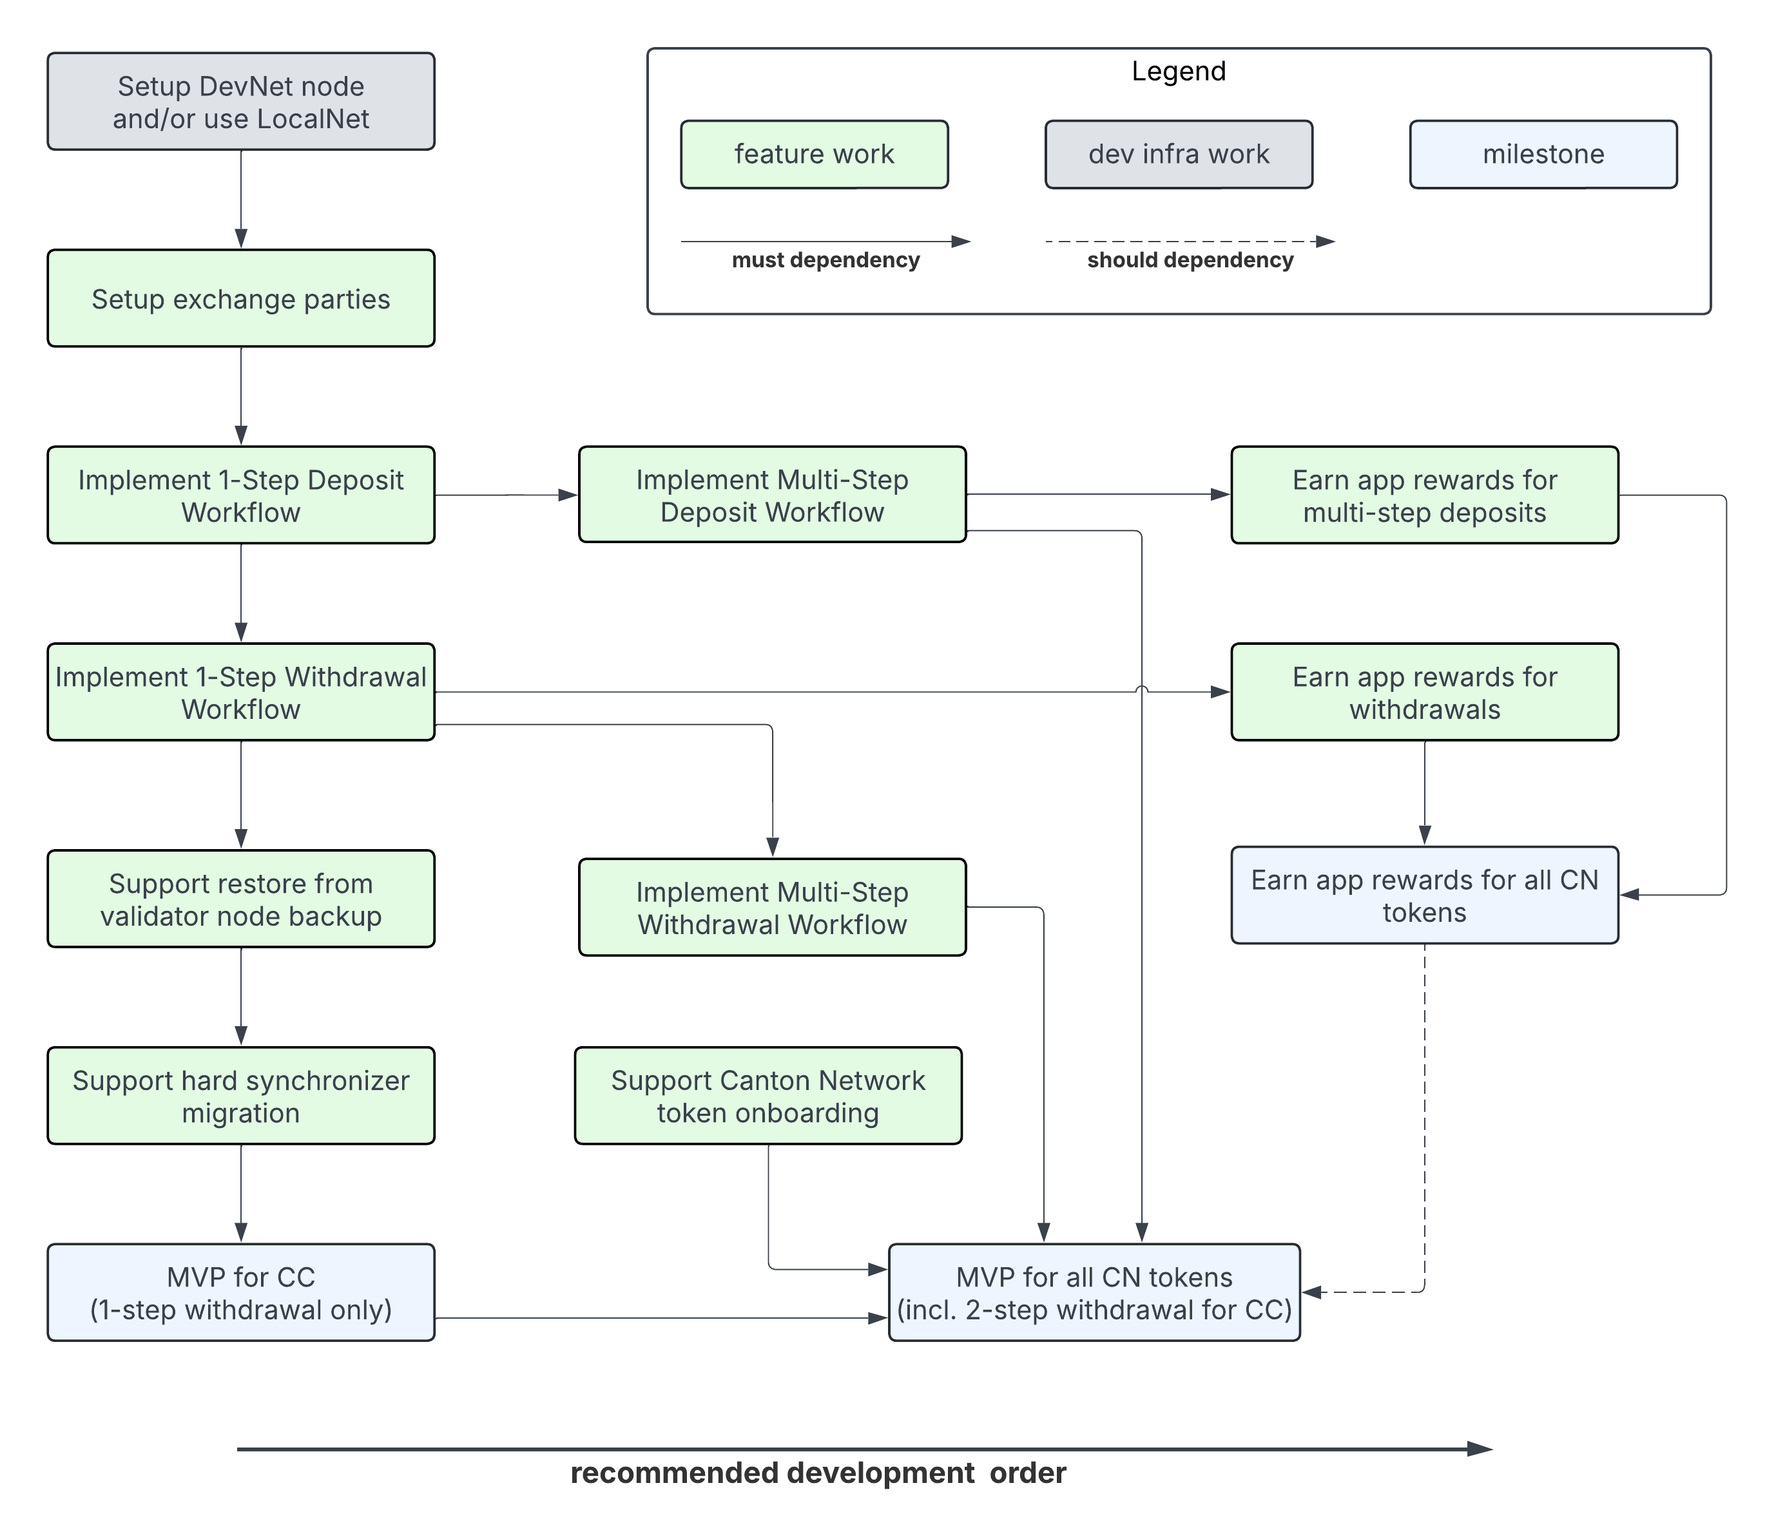
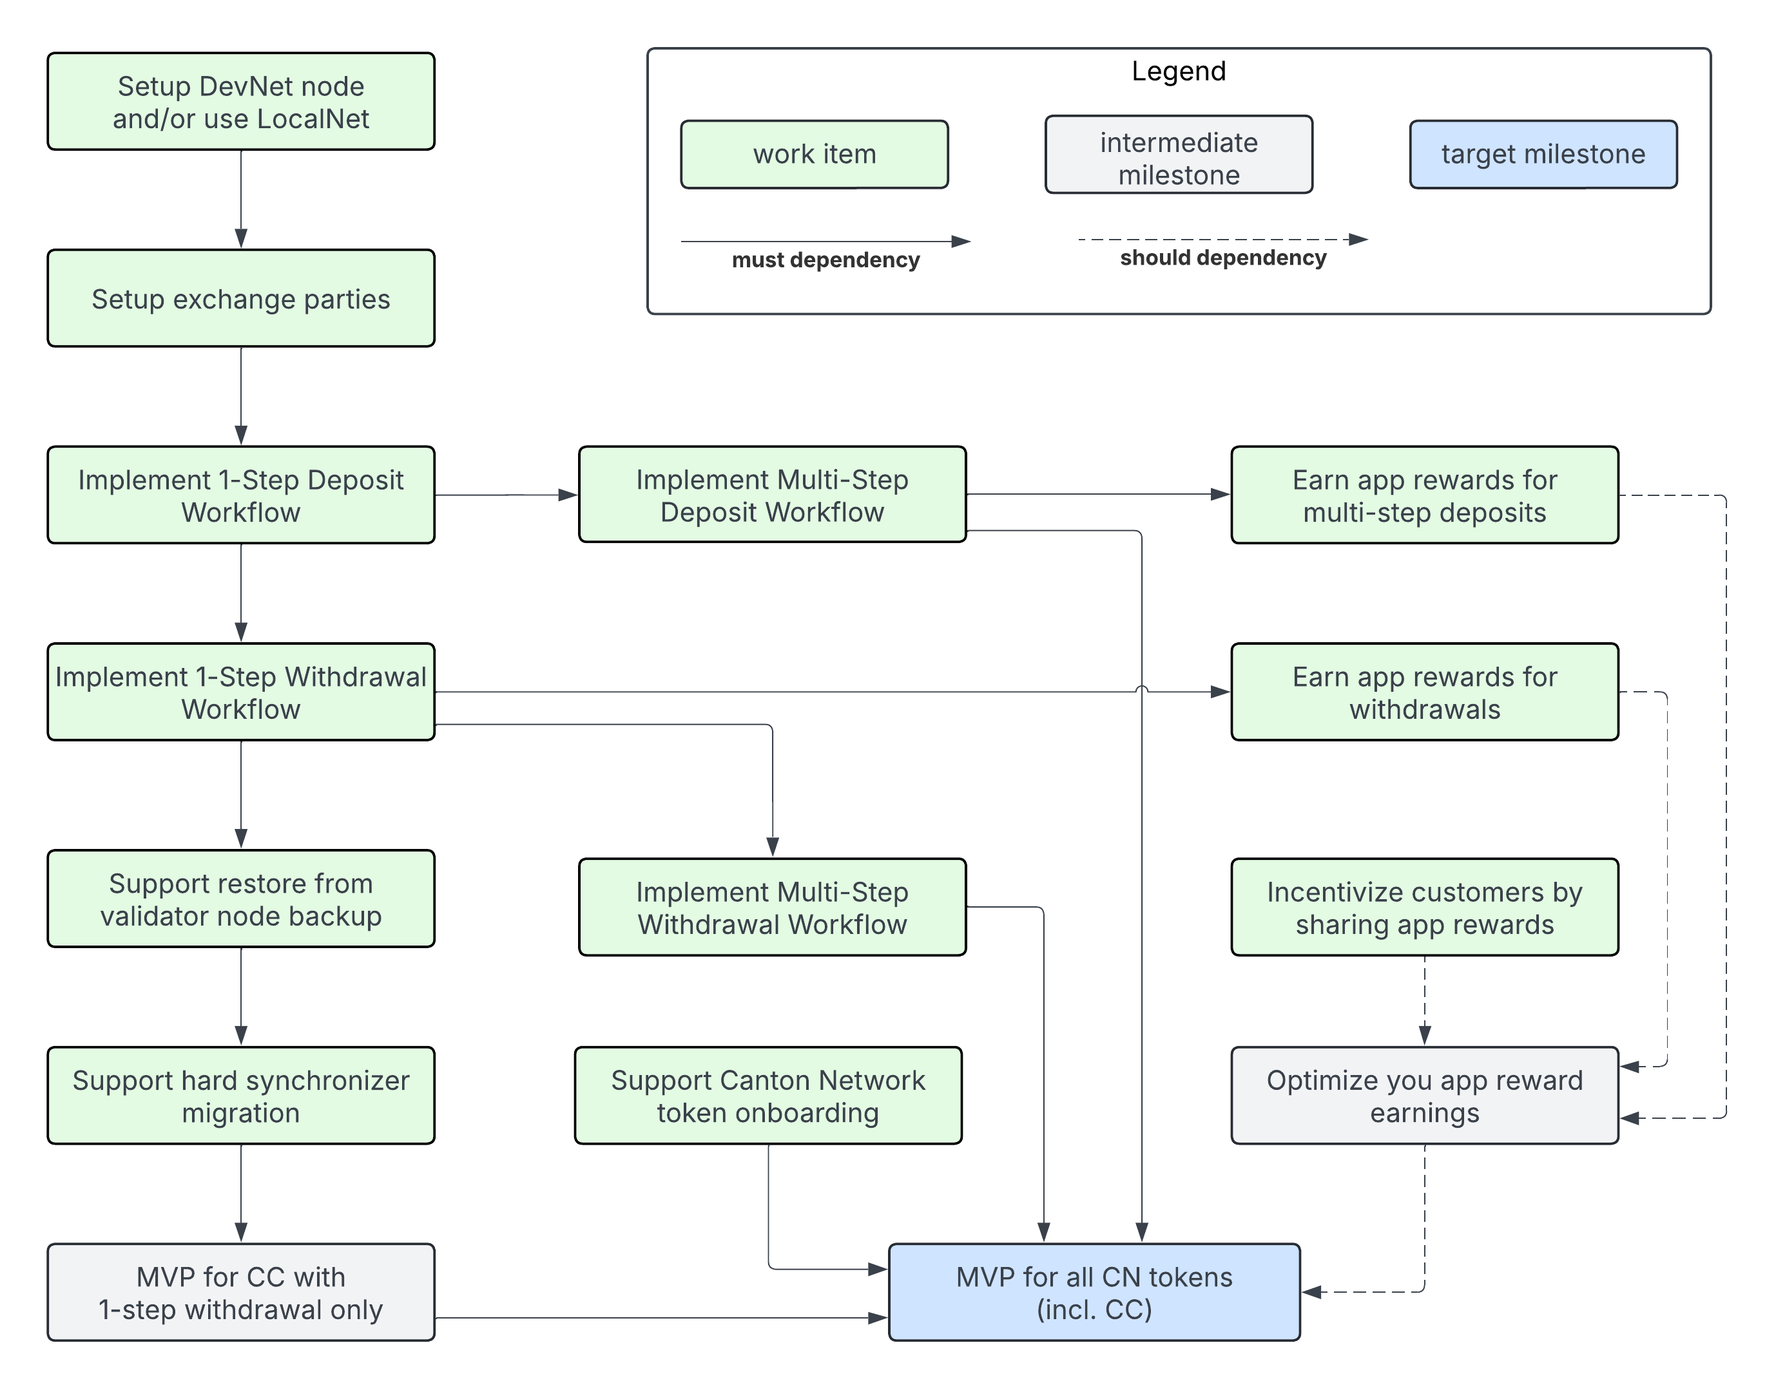
docs: address David's review

diff --git a/docs/wallet-integration-guide/src/exchange-integration/architecture.rst b/docs/wallet-integration-guide/src/exchange-integration/architecture.rst
@@ -57,9 +57,8 @@ with Canton. We explain the components in the subsections below.
 Exchange Components
 ^^^^^^^^^^^^^^^^^^^
 
-This guide assumes that there are **Exchange Internal Systems** that manage among other things
+This guide assumes that there are **Exchange Internal Systems** that manage, among other things,
 the exchange's internal ledger of **Customer** balances.
-.. REVIEW: Grammar update: "This guide assumes that there are **Exchange Internal Systems** that manage, among other things, the exchange's internal ledger of **Customer** balances."
 These systems are in particular used to serve data to the **Exchange UI**,
 which is used by exchange customers to trade, observe their deposits,
 and request withdrawals of funds to their wallets.
@@ -75,11 +74,10 @@ Canton Integration Components
 There are five Canton integration components:
 
 * The **Exchange Validator Node** is a :ref:`Splice validator node <validator_nodes>` that hosts
-  the ``treasuryParty`` that controls the funds of the exchange, receives deposits, and
-  executes transfers for withdrawals.
+  your ``treasuryParty``, which is the party you setup to control funds, receive deposits, and
+  execute transfers for withdrawals. See :ref:`exchange-parties-setup` for details on how to setup this party.
   You are not expected to build this node, but you are expected to either operate it yourself
   or use a node-as-a-service provider to operate it for you.
-  .. REVIEW: I'd explain what the treasuryParty is here and add a link to how to setup the treasuryParty. If you're reading this guide in order of the links, as I did, this term is sprung on you. - assuming I have it right, it's a party that you're suggesting that they set up to hold the funds of the exchange. That explains that it's not a core Canton concept, but rather something specific to the exchange's implementation.
 * The **Canton Integration DB** is used to keep track of the state of withdrawals and
   the customer-attribution of the funds held by the ``treasuryParty``.
   It is shown as a separate component in the diagram, but it could well be part of your
@@ -125,9 +123,9 @@ in the context of the Canton integration:
 * The **Registry API Server** provides access to extra context to execute
   token transfers. This context is often only known to the token administrator,
   which is why access is provided to it off-ledger. The
-  `OpenAPI specification of the Registry API <https://docs.dev.sync.global/app_dev/token_standard/index.html#api-references>`_
-  is part of the Canton Network Token Standard.
-  .. REVIEW: the link above goes to a paragraph with a link to the CPI - consider just linking directly to the CIP.
+  OpenAPI specification of the Registry API is
+  maintained as part the
+  `Canton Network Token Standard definitions <https://github.com/hyperledger-labs/splice/tree/main/token-standard>`_ in the Splice repository.
 
 
 .. _information-flows:
@@ -146,12 +144,11 @@ We explain them below.
 
 There are three main information flows:
 
-.. REVIEW: Grammar - missing period at the end of the first sentence.
 #. **Tx History Ingestion**: ingests the transactions
-   affecting the ``treasuryParty`` from the Exchange Validator Node into the Canton Integration DB
-   The transaction data is read using the ``/v2/updates/trees``
-   `Ledger API endpoint <https://github.com/digital-asset/canton/blob/92339b6f98faaecbe3adbfb71293ed9cbfb30204/community/ledger/ledger-json-api/src/test/resources/json-api-docs/openapi.yaml#L845>`_
-   (Arrow 1.a).
+   affecting the ``treasuryParty`` from the Exchange Validator Node into the Canton Integration DB.
+   Arrow 1.a represents the transaction data being read using the ``/v2/updates/flats``
+   Ledger API endpoint using either `plain HTTP <https://github.com/digital-asset/canton/blob/92339b6f98faaecbe3adbfb71293ed9cbfb30204/community/ledger/ledger-json-api/src/test/resources/json-api-docs/openapi.yaml#L786>`_
+   or `websockets <https://github.com/digital-asset/canton/blob/92339b6f98faaecbe3adbfb71293ed9cbfb30204/community/ledger/ledger-json-api/src/test/resources/json-api-docs/asyncapi.yaml#L36>`_.
    It is parsed by the Tx History Ingestion service to update the status of
    funds, deposits, and withdrawals in the Canton Integration DB (Arrow 1.b).
 
@@ -181,13 +178,10 @@ There are three main information flows:
    If yes, it prepares, signs, and executes an accept transaction using the Ledger API (Arrow 3.b).
    If no, then it takes no action, and lets the transfer offer expire or be withdrawn by the sender.
 
-   Note that the Multi-Step Deposit Automation may write back to the Canton Integration DB to store
+   Note that there is an arrow from Multi-Step Deposit Automation back to the Canton Integration DB,
+   as the Multi-Step Deposit Automation may write back to the Canton Integration DB to store
    that the transaction to accept the deposit could not be committed even after retrying multiple times.
-   .. REVIEW: What's the point of this paragraph? Is it that the write transaction may fail?
 
 The other information flows interact with the main flows as part of a deposit or withdrawal.
 We explain them in the :ref:`integration-workflows` section.
-
-.. REVIEW: This page is really good. We need a similar one for the WIG. I don't think that it would take much to adjust this one, using the same diagrams for the wallet providers and explaining their flows.
-.. One thing that you don't mention so far is how they setup the treasuryParty. I'm assuming that this should be a local party so that they can automate transfers etc. We should explain that to them.
 

diff --git a/docs/wallet-integration-guide/src/exchange-integration/workflows.rst b/docs/wallet-integration-guide/src/exchange-integration/workflows.rst
@@ -7,8 +7,7 @@ Overview
 --------
 
 The workflows below are grouped into two integration stages.
-.. REVIEW: My strong opinion is that we should remove the distinction and MVPs of supporting CC vs supporting the token standard. I believe that exchanges need to support 2 step transfers in both directions for CC anyway and that's the only distinction between the two. 
-.. We can cut this page in half and have exchanges support the token standard by having them support both 1step and 2 step transfers.
+
 * :ref:`mvp-for-cc` contains the minimum viable product (MVP) workflows for integrating Canton Coin (CC) into the exchange.
   It comes with the limitation that both the exchange and the customers need to set up a ``TransferPreapproval`` to
   enable 1-step transfers of CC.
@@ -37,8 +36,8 @@ MVP for Canton Coin
 
 .. note::
 
-   The diagrams in the sections below specialize the diagram from the :ref:`information-flows`
-   section to the case for Canton Coin (CC). The specializations are:
+   The diagrams in the sections below adapt the diagram from the :ref:`information-flows`
+   section to the case for Canton Coin (CC). The adaptations are:
 
    * The role of the ``adminParty`` is taken over by the ``dsoParty``, which is the token admin for CC.
      The ``dsoParty`` is a decentralized party that is hosted on the validator
@@ -48,7 +47,6 @@ MVP for Canton Coin
      that every SV operator runs. They serve the Registry API for CC.
      See :ref:`reading-from-canton-coin-scan` for more information about
      how to reliably read from multiple Canton Coin Scan instances.
-.. REVIEW: I'm not famniliar with the phrasing "Specialize". It could just be me... I'd use the phrase "adapt"
 
 .. _one-step-deposit-workflow:
 
@@ -61,11 +59,10 @@ MVP for Canton Coin
 
 Assumptions:
 
--  Exchange set up a CC ``TransferPreapproval`` for their
+-  The Exchange has set up a CC ``TransferPreapproval`` for their
    ``treasuryParty`` as explained in :ref:`setup-treasury-party`.
--  Exchange associated deposit account “abc123” with Customer in
+-  The Exchange has associated deposit account “abc123” with Customer in
    the Canton Integration DB.
-.. REVIEW: Small grammar suggestion to make the sentence flow easier "The Exchange has set up..." and "The Exchange has associated..."
 
 Example flow:
 
@@ -143,11 +140,9 @@ Example flow:
    * The CC ``Holding`` UTXOs ``coids`` to use to fund the transfer to
      ``customerParty`` for ``wid123``. See :ref:`utxo-management` for more information.
    * The target record time ``trecTgt`` on the Global Synchronizer
-     until which the transaction for the CC transfer must be committed
-     using the ``coids`` UTXOs for funding ``wid123``. The ``coids``
-     are considered to be reserved to funding this transfer until
-     ``trecTgt`` has passed.
-.. REVIEW: The first sentence in the last paragraph reads funny.
+     until which the transaction for the CC transfer must be committed.
+     The ``coids`` are considered to be reserved for funding the transfer
+     for withdrawal ``wid123`` until ``trecTgt`` has passed.
 
 3. Withdrawal Automation observes the pending withdrawal ``wid123`` and
    commits the corresponding CC transfer as follows.
@@ -213,7 +208,6 @@ Example flow:
 
 .. _utxo-management:
 
-.. REVIEW: This section should be pulled out into the WIG at a higher level. This section is relevant to wallet integrators and exchanges. I'll look to suggest a place for this.
 UTXO Selection and Management
 ^^^^^^^^^^^^^^^^^^^^^^^^^^^^^
 
@@ -294,10 +288,9 @@ Multi-Step Deposit Workflow
 Example flow: deposit offer and acceptance
 ~~~~~~~~~~~~~~~~~~~~~~~~~~~~~~~~~~~~~~~~~~
 
-The flow uses essentially the same initial three steps as
+The flow uses essentially the same initial four steps as
 the :ref:`one-step-deposit-workflow` above.
 We list them in full for completeness.
-.. REVIEW: I think that three should be changed to four since the statement "This is where the main difference..." sentence comes after point 4
 
 1. Customer uses Exchange UI to retrieve ``treasuryParty`` and deposit
    account-id “abc123” to use for the deposit.
@@ -414,7 +407,6 @@ The sender can use their wallet to withdraw the offer.
 Ingesting deposit offers with unknown deposit accounts is still valuable
 to allow the exchange's support team to handle customer inquiries about
 these transfers.
-.. REVIEW: Considering the section above, shouldn't there be a step in the multi-step deposit workflow process above for the 'Multi-Step Deposit Automation' to check for the deposit account?
 
 
 .. _multi-step-withdrawal-workflow:
@@ -595,10 +587,6 @@ that the transfer was offered, but rejected by them.
   completed with a successful transfer, failed, or is still pending an action by one of the stakeholders.
 
 
-
-
-
-.. REVIEW: This section should also go in the WIG. It should also be considered for wallet providers and there's only one place where the guidance is specific to exchanges.
 .. _token-onboarding:
 
 Canton Network Token Onboarding

diff --git a/docs/wallet-integration-guide/src/exchange-integration/overview.rst b/docs/wallet-integration-guide/src/exchange-integration/overview.rst
@@ -34,15 +34,17 @@ The following dependency diagrams shows the work items and milestones, which we 
 .. image:: images/delivery_dependencies.png
   :alt: milestone and delivery dependency diagram
 
-.. REVIEW: Should we put the milestone of supporting all CN token standards first? 
-.. Based on Eric's argument that we'll only have exchanges attention once, and if they only support CC 
-.. then we won't get them back to support other tokens we should push them to support the token standard,
-.. and just include CC as part of that integration. It may however, require the rewriting of the guide to
-.. focus on the integration of the token standard and point out specifically what they need to do in addition,
-.. to support CC specifically.
-* **MVP for CC**: this MVP allows you to support deposits and withdrawals of Canton Coin (CC).
+* **MVP for CC with 1-step withdrawal only**: this MVP allows you to support deposits and withdrawals of Canton Coin (CC).
   It includes earning app rewards for all CC deposits.
-  It comes with the limitation that users must setup a CC transfer preapproval to receive withdrawals.
+  The workflows build on the Canton Network Token Standard and thus provide a good stepping stone for
+  supporting all CN tokens.
+  We consider it an intermediate milestone, as it does not support:
+
+  * all CN tokens
+  * CC users that prefer to control the receipt of transfers, and thus do not want to
+    setup preapprovals
+  * earning app rewards for all deposits and withdrawals
+
   See the following sections for details on the work items it depends on.
 
   * :ref:`Setup DevNet node and/or use LocalNet <test-node-setup>`
@@ -52,7 +54,6 @@ The following dependency diagrams shows the work items and milestones, which we 
   * :ref:`Support restore from validator node backup <restore-from-validator-node-backup>`
   * :ref:`Support hard synchronizer migration <hard-synchronizer-migration>`
 
-.. REVIEW: Should the line below say "...withdrawals of all CN token standard tokens / assets?
 * **MVP for all CN Tokens**: this MVP allows you to support deposits and withdrawals of all CN tokens.
   It comes with the limitation that app rewards are only earned on deposits of CC, but not on deposits of other CN tokens.
   It depends on the MVP for CC and the following additional work items:
@@ -64,7 +65,9 @@ The following dependency diagrams shows the work items and milestones, which we 
 * **Earn app rewards for all CN tokens**: is an additional milestone that improves
   the profitability of your integration by implementing the changes required so that
   your exchange earns app rewards on both withdrawals and deposits of all CN tokens.
-  .. REVIEW: Should that say "...withdrawals of all CN token standard tokens / assets?
+  Sharing app rewards is an optional step. Whether you want to so depends on
+  your user base and business model.
 
   * :ref:`deposit-app-rewards`
   * :ref:`withdrawal-app-rewards`
+  * :ref:`share-rewards-with-customers`

diff --git a/docs/wallet-integration-guide/src/exchange-integration/non-functionals.rst b/docs/wallet-integration-guide/src/exchange-integration/non-functionals.rst
@@ -1,8 +1,7 @@
 Fault Tolerance
 ===============
 
-.. REVIEW: I'd add the architecture diagram at the top of this page - you refrence components from it so it would be good to use as a reference.
-.. What is "sketch" use below for? Is this a 'todo' to sketch a diagram or are these sections just notes?
+.. TODO: I'd add the architecture diagram at the top of this page - you refrence components from it so it would be good to use as a reference.
 
 Handling Crashes
 ^^^^^^^^^^^^^^^^
@@ -12,8 +11,7 @@ Sketch for crashes and restarts:
 * Tx History Ingestion restarts and continues from the last ingested offset.
   If none is set, then that means it never ingested any transaction.
   It starts from the beginning of the transaction history, which is always as offset ``0``.
-* withdrawal automation is stateless, so just restarts
-.. REVIEW: Small grammar issue - need a capital W
+* Withdrawal automation is stateless, so just restarts
 
 Handling RPC Errors
 ^^^^^^^^^^^^^^^^^^^
@@ -26,12 +24,11 @@ Sketch for retries:
   A withdrawal is considered definitely failed once its target record time ``trecTgt`` is below
   the last ingested record time.
 
-   * Note: Canton participant nodes regularly (every 30' by default) requesting time-proofs from the sequencer
+   * Note: Canton participant nodes regularly (every 30' by default) request time-proofs from the sequencer
      to ensure that they observe time progressing even if there's no activity.
      They expose this information to Ledger API clients
      via ``OffsetCheckpoints`` (`docs <https://docs.digitalasset-staging.com/build/3.3/reference/lapi-proto-docs.html#com-daml-ledger-api-v2-offsetcheckpoint>`_).
 
-.. REVIEW: Small grammar issue - "...regularly (every 30' by default) request"
 
 .. _reading-from-canton-coin-scan:
 
@@ -43,13 +40,11 @@ Reading from Canton Coin Scan
 
 Sketch wrt reading from Canton Coin Scan: choose one of
 
-  * read from validator proxy or
+  * read from validator proxy (recommended) or
   * choose a random canton coin scan instance on every retry
   * read from multiple canton coin scan instances in parallel and compare their responses (this is what validator proxy does for you)
 
 Note: the same approach should be used for other decentralized tokens.
-
-.. REVIEW: Which one would I choose for which reasons?
 
 
 Backup and Restore of the Canton Integration DB

diff --git a/docs/wallet-integration-guide/src/exchange-integration/extensions.rst b/docs/wallet-integration-guide/src/exchange-integration/extensions.rst
@@ -1,5 +1,5 @@
 .. _integration-extensions:
-.. REVIEW: This page should be a general page for wallet providers too, most of the info on this page is relevant to wallet providers too. The only sections which are specific to exchanges is potentially the advice to multi-host the treasury party but then again it's likely also relevant to wallet providers.
+
 Integration Extensions
 ----------------------
 
@@ -48,6 +48,17 @@ Sketch:
 * change call to ``TransferFactory_Transfer`` to use the wrapped version, like the one here https://github.com/hyperledger-labs/splice/pull/1907/files#diff-4cbc6e851f73f40db384d63aa97dbf4ffb93c505b0ed0c3c360e7914f94f6201R54-R62
 * note history tx parser should deal with this properly and just ignore the extra wrapper. So no further change required
 
+
+.. _share-rewards-with-customers:
+
+Sharing App Rewards with your Customers
+~~~~~~~~~~~~~~~~~~~~~~~~~~~~~~~~~~~~~~~
+
+Sketch:
+
+* use the benefeciary feature of app rewards to share some of the rewards with your customers
+
+  * see https://hyperledger-labs.github.io/splice/background/tokenomics/feat_app_act_marker_tokenomics.html#creating-a-featured-application-activity-marker
 
 
 Sharding the Treasury

diff --git a/docs/wallet-integration-guide/src/exchange-integration/node-operations.rst b/docs/wallet-integration-guide/src/exchange-integration/node-operations.rst
@@ -1,6 +1,7 @@
 Validator Node Operations
 =========================
-.. REVIEW: This page should be a general page for wallet providers too, the only exchange specific info is the party name.
+
+
 Reward Minting and Traffic Funding
 ----------------------------------
 

diff --git a/docs/wallet-integration-guide/src/exchange-integration/testing.rst b/docs/wallet-integration-guide/src/exchange-integration/testing.rst
@@ -1,6 +1,6 @@
 Integration Testing
 ===================
-.. REVIEW: This page should be a general page for wallet providers too
+
 .. _test-node-setup:
 
 Test Node Setup
